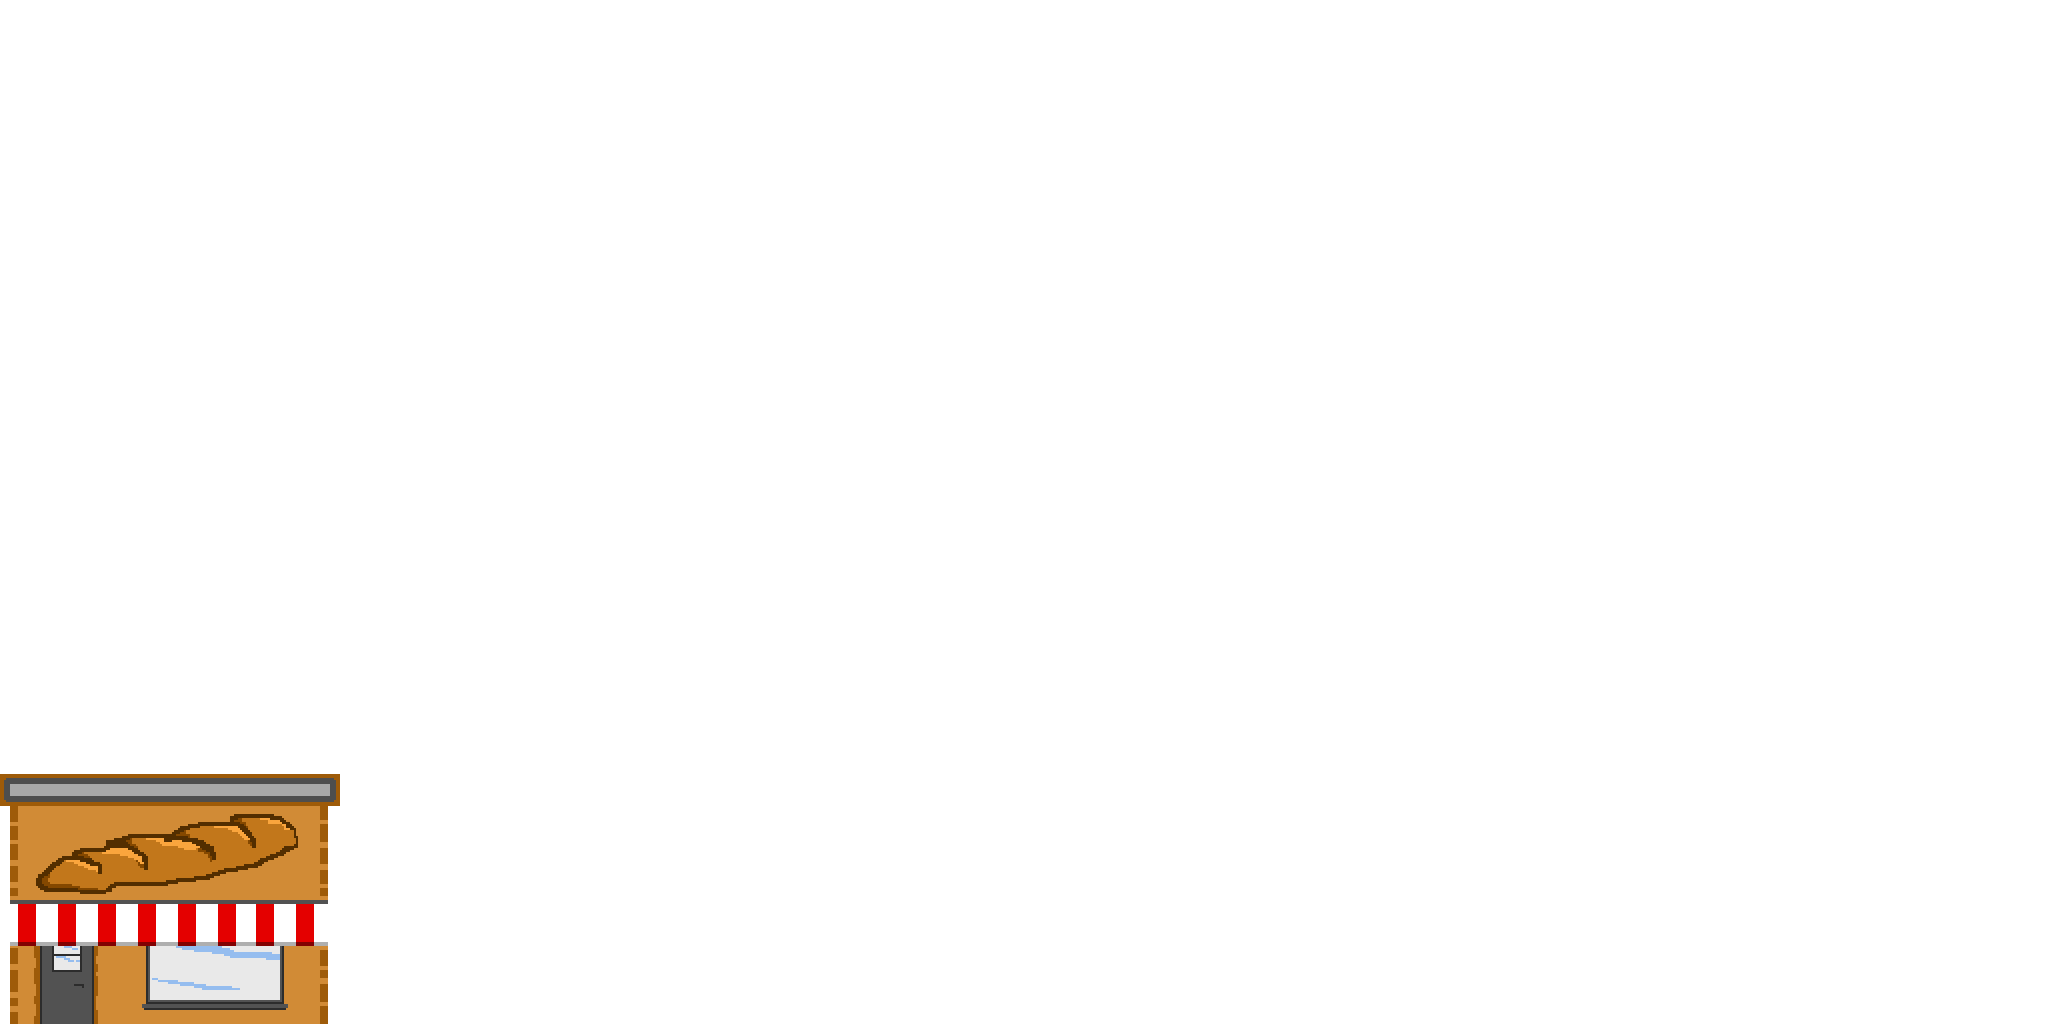
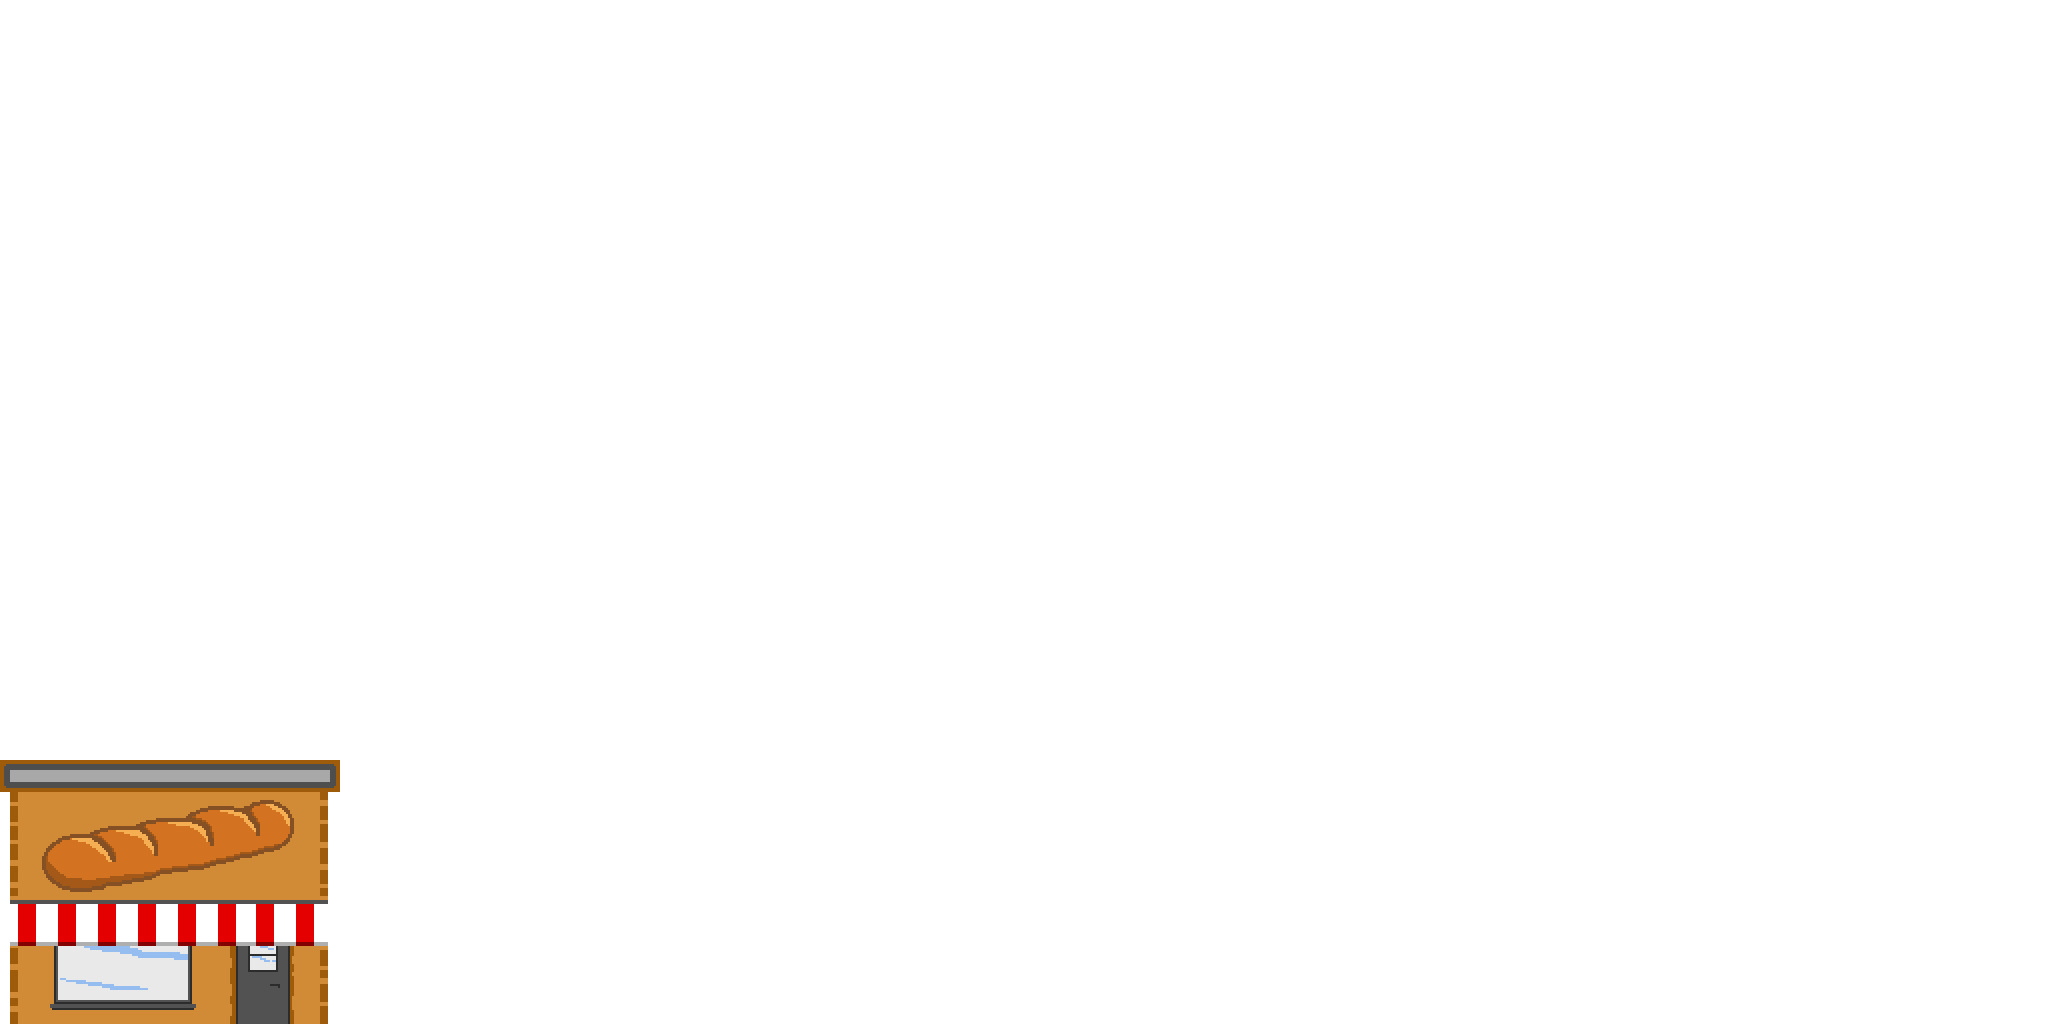
changement bakery + emplacement porte

Changed region(s): [[0.0, 0.7188, 0.1875, 0.875], [0.0, 0.9062, 0.1562, 1.0]]

diff --git a/src/scripts/app.js b/src/scripts/app.js
@@ -523,7 +523,7 @@ class MainWorld extends Phaser.Scene {
         let groundCollider2 = this.physics.add.staticImage(9701, 788, null).setSize(9000, 100).setVisible(false);
         let groundColliderExtra1 = this.physics.add.staticImage(4327, 786, null).setSize(34, 30).setVisible(false);
         let groundColliderExtra2 = this.physics.add.staticImage(5185, 786, null).setSize(32, 30).setVisible(false);
-        let enterBakery = this.physics.add.staticImage(13564, 699, null).setSize(52, 79).setVisible(false); //entrée boulangerie
+        let enterBakery = this.physics.add.staticImage(13760, 699, null).setSize(52, 79).setVisible(false); //entrée boulangerie
         let enterShop = this.physics.add.staticImage(7036, 699, null).setSize(51, 79).setVisible(false); //entrée shop
         let bac = this.physics.add.staticImage(7955, 716, null).setSize(150, 50).setVisible(false); //chantier - bac camion
         let truck = this.physics.add.staticImage(8155, 718, null).setSize(148, 48).setVisible(false); //chantier - camion 
@@ -853,7 +853,7 @@ class MainWorld extends Phaser.Scene {
 
         // texte "entrer"
         if (bakeryTextShown) {
-            const distance = Phaser.Math.Distance.Between(player.x, player.y, 13564, 699);
+            const distance = Phaser.Math.Distance.Between(player.x, player.y, 13760, 699);
             if (distance > 100) {
                 if (bakeryText) {
                     bakeryText.destroy();
